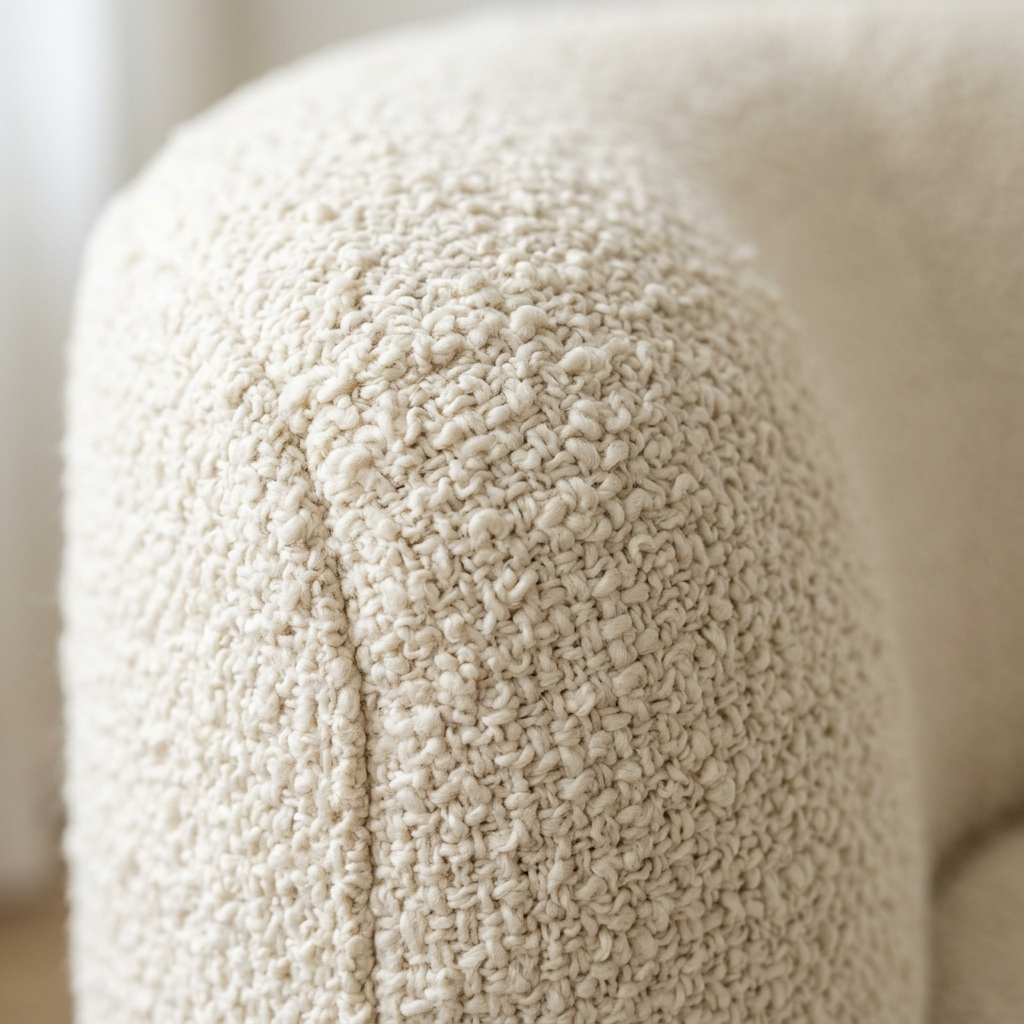
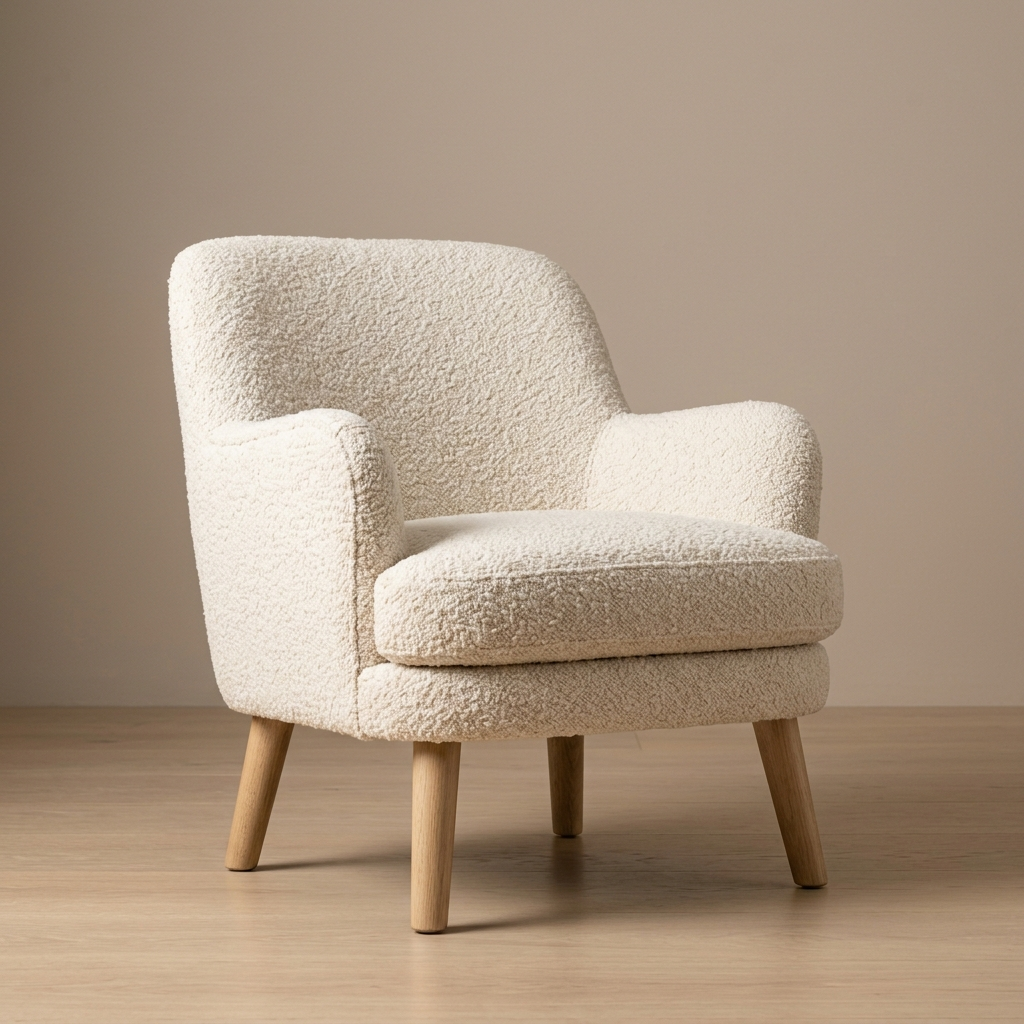
feat: initialize decor product catalog and add static assets

diff --git a/assets/js/decor-store.js b/assets/js/decor-store.js
@@ -129,8 +129,8 @@
     },
     {
       id: "decor-9",
-      title: "Alpine Polyresin Bird Water Fountain ",
-      category: "Fountains & Sculptures",
+      title: "Alpine Luxury Round Marble Top Coffee Table",
+      category: "Vases & Ceramics",
       price: 799,
       originalPrice: 999,
       rating: 4.7,
@@ -139,12 +139,12 @@
       badge: "20% OFF",
       badgeClass: "badge-discount",
       image: "assets/images/decor/alpine_bird_fountain.png",
-      dimensions: "13cm x 12.5cm x 18.5cm",
-      description: "Compact tabletop water fountain featuring hand-painted songbirds resting beside cascading river rocks with quiet pump."
+      dimensions: "90cm x 90cm x 45cm",
+      description: "Luxury round white marble coffee table featuring solid natural quarried marble top with brushed brass gold frame."
     },
     {
       id: "decor-10",
-      title: "Noor Polyresin Buddha Figurine with T-Light",
+      title: "Noor Sculptural Bouclé Accent Armchair",
       category: "Figurines",
       price: 4999,
       originalPrice: null,
@@ -154,8 +154,8 @@
       badge: "FREE SHIPPING",
       badgeClass: "badge-shipping",
       image: "assets/images/decor/noor_buddha_tlight.png",
-      dimensions: "10\"W x 8\"D x 14\"H",
-      description: "Serene meditating Buddha statue with built-in lotus tea light candle holder crafted in aged bronze patinated polyresin."
+      dimensions: "32\"W x 34\"D x 30\"H",
+      description: "Contemporary curved lounge armchair upholstered in tactile cream bouclé fabric with solid oak inner frame."
     },
     {
       id: "decor-11",
@@ -174,7 +174,7 @@
     },
     {
       id: "decor-12",
-      title: "Brighton Stoneware Reindeer Figurine",
+      title: "Brighton Mid-Century Wooden Credenza",
       category: "Figurines",
       price: 2499,
       originalPrice: null,
@@ -184,8 +184,8 @@
       badge: "",
       badgeClass: "",
       image: "assets/images/decor/brighton_reindeer.png",
-      dimensions: "8\"W x 4\"D x 14\"H",
-      description: "Nordic styled stoneware reindeer figurine with metallic antler highlights, creating a festive luxury statement."
+      dimensions: "60\"W x 18\"D x 30\"H",
+      description: "Handcrafted solid teak wood credenza console sideboard with slatted doors and brushed metal hardware."
     },
     {
       id: "decor-13",
@@ -204,7 +204,7 @@
     },
     {
       id: "decor-14",
-      title: "Alpine Polyresin Ganesha Fountain - 25x39cm",
+      title: "Alpine Cognac Leather Sectional Sofa",
       category: "Fountains & Sculptures",
       price: 2749,
       originalPrice: 5499,
@@ -214,12 +214,12 @@
       badge: "50% OFF",
       badgeClass: "badge-discount",
       image: "assets/images/decor/alpine_ganesha_fountain.png",
-      dimensions: "25cm x 39cm",
-      description: "Divine Lord Ganesha tabletop water fountain with rolling crystal water ball and warm glowing LED backlight."
+      dimensions: "96\"W x 40\"D x 32\"H",
+      description: "Plush modern cognac brown leather sectional sofa crafted from top-grain aniline leather with deep comfortable seating."
     },
     {
       id: "decor-15",
-      title: "Enlighten Polyresin Sitting Buddha Figurine",
+      title: "Enlighten Luxury Upholstered Platform Bed",
       category: "Figurines",
       price: 5999,
       originalPrice: null,
@@ -229,12 +229,12 @@
       badge: "FREE SHIPPING",
       badgeClass: "badge-shipping",
       image: "assets/images/decor/enlighten_sitting_buddha.png",
-      dimensions: "14\"W x 10\"D x 20\"H",
-      description: "Large antique gold sitting Buddha sculpture displaying Dhyana Mudra gesture, designed to infuse tranquility into any home."
+      dimensions: "68\"W x 86\"L x 48\"H",
+      description: "Tailored modern low-profile platform bed frame featuring plush neutral channel-tufted upholstered headboard."
     },
     {
       id: "decor-16",
-      title: "Alpine Carnival Polyresin Meditating Buddha",
+      title: "Alpine Teak Outdoor Lounge Daybed",
       category: "Fountains & Sculptures",
       price: 3999,
       originalPrice: 7999,
@@ -244,12 +244,12 @@
       badge: "50% OFF",
       badgeClass: "badge-discount",
       image: "assets/images/decor/alpine_carnival_fountain.png",
-      dimensions: "26cm x 18cm x 44cm",
-      description: "Tiered rock waterfall fountain featuring meditating Buddha in serene contemplation with color-changing water LED lights."
+      dimensions: "72\"W x 34\"D x 28\"H",
+      description: "Weather-resistant premium teak wood outdoor lounge sofa daybed with plush off-white water-repellent cushions."
     },
     {
       id: "decor-17",
-      title: "Jessica White Metal Contemporary Floor Lamp",
+      title: "Jessica Teak Wood Credenza Cabinet",
       category: "Lighting",
       price: 2999,
       originalPrice: null,
@@ -259,12 +259,12 @@
       badge: "FREE SHIPPING",
       badgeClass: "badge-shipping",
       image: "assets/images/decor/jessica_white_lamp.png",
-      dimensions: "16\"Dia x 60\"H",
-      description: "Modern minimalist white metal floor lamp with clean geometric stand and softly diffused ambient light output."
+      dimensions: "54\"W x 16\"D x 32\"H",
+      description: "Minimalist four-door teak wood storage credenza cabinet showcasing natural wood grain and sleek brass legs."
     },
     {
       id: "decor-18",
-      title: "Brighton Max Ceramic Sitting Rabbit",
+      title: "Brighton Velvet Wingback Upholstered Bed",
       category: "Figurines",
       price: 1299,
       originalPrice: null,
@@ -274,8 +274,8 @@
       badge: "",
       badgeClass: "",
       image: "assets/images/decor/brighton_rabbit.png",
-      dimensions: "7\"W x 5\"D x 12\"H",
-      description: "Smooth glazed ceramic sitting rabbit figurine in minimalist ivory white finish, adding playful sophistication to console tables."
+      dimensions: "66\"W x 84\"L x 52\"H",
+      description: "Elegant ivory velvet upholstered wingback bed frame with deep cushioned support and solid timber legs."
     }
   ];
 

diff --git a/assets/css/style.css b/assets/css/style.css
@@ -1795,17 +1795,21 @@ p {
 /* ---- CTA Newsletter Form ---- */
 .cta-newsletter-form {
   display: flex;
-  max-width: 420px;
+  max-width: 460px;
   margin: 0 auto;
   border-radius: var(--radius-full);
   overflow: hidden;
-  border: 1.5px solid rgba(255, 255, 255, 0.4);
-  background: rgba(255, 255, 255, 0.05);
-  transition: border-color var(--t-fast);
+  border: 1.5px solid rgba(255, 255, 255, 0.45);
+  background: rgba(0, 0, 0, 0.25);
+  backdrop-filter: blur(8px);
+  -webkit-backdrop-filter: blur(8px);
+  padding: 4px;
+  transition: all var(--t-fast);
 }
 
 .cta-newsletter-form:focus-within {
-  border-color: rgba(255, 255, 255, 0.8);
+  border-color: var(--color-primary-light);
+  box-shadow: 0 0 16px rgba(197, 160, 89, 0.3);
 }
 
 .cta-newsletter-form input {
@@ -1813,33 +1817,37 @@ p {
   background: transparent;
   border: none;
   outline: none;
-  padding: 0.9rem 1.2rem;
+  padding: 0.8rem 1.2rem;
   color: #fff;
-  font-size: 0.9rem;
+  font-size: 0.95rem;
   min-width: 0;
 }
 
 .cta-newsletter-form input::placeholder {
-  color: rgba(255, 255, 255, 0.6);
+  color: rgba(255, 255, 255, 0.7);
 }
 
 .cta-newsletter-form button {
   background: var(--color-primary);
-  color: #fff;
+  color: #111111;
   border: none;
-  padding: 0 1.8rem;
+  padding: 0.8rem 1.8rem;
   font-family: var(--font-button);
-  font-weight: 500;
+  font-weight: 600;
   font-size: 0.95rem;
-  transition: background var(--t-fast);
+  border-radius: var(--radius-full);
+  transition: all var(--t-fast);
   cursor: pointer;
   white-space: nowrap;
   flex-shrink: 0;
+  box-shadow: 0 2px 8px rgba(0, 0, 0, 0.2);
 }
 
 .cta-newsletter-form button:hover {
-  background: var(--color-primary-light);
-  color: var(--color-dark);
+  background: #FFFFFF;
+  color: #111111;
+  box-shadow: 0 4px 14px rgba(255, 255, 255, 0.4);
+  transform: translateY(-1px);
 }
 
 /* ============ ACCORDION (FAQ) ============ */
@@ -1950,6 +1958,35 @@ textarea.form-control {
   .form-row.two {
     grid-template-columns: 1fr 1fr;
   }
+}
+
+/* Contact Info Card Icon Box */
+.contact-icon-box {
+  width: 44px;
+  height: 44px;
+  border-radius: var(--radius-md);
+  background: var(--color-secondary-light);
+  display: flex;
+  align-items: center;
+  justify-content: center;
+  color: var(--color-primary-dark);
+  flex-shrink: 0;
+  transition: all var(--t-fast) var(--ease);
+}
+
+/* Date & Time Picker Icon Styling (Light Mode) */
+input[type="date"]::-webkit-calendar-picker-indicator,
+input[type="time"]::-webkit-calendar-picker-indicator,
+input[type="datetime-local"]::-webkit-calendar-picker-indicator {
+  cursor: pointer;
+  filter: brightness(0) saturate(100%) invert(35%) sepia(50%) saturate(600%) hue-rotate(5deg);
+  opacity: 0.85;
+  transition: opacity var(--t-fast);
+}
+
+input[type="date"]::-webkit-calendar-picker-indicator:hover,
+input[type="time"]::-webkit-calendar-picker-indicator:hover {
+  opacity: 1;
 }
 
 /* ============ BADGE ============ */

diff --git a/assets/css/dark-mode.css b/assets/css/dark-mode.css
@@ -50,14 +50,27 @@
 [data-theme="dark"] input[type="date"]::-webkit-calendar-picker-indicator,
 [data-theme="dark"] input[type="time"]::-webkit-calendar-picker-indicator,
 [data-theme="dark"] input[type="datetime-local"]::-webkit-calendar-picker-indicator {
-  filter: invert(0.9) brightness(1.2);
+  filter: brightness(0) invert(0.85) sepia(1) saturate(5) hue-rotate(5deg) !important;
+  opacity: 0.95;
   cursor: pointer;
 }
 
 /* Contact info card icon contrast in dark mode */
-[data-theme="dark"] .contact-grid div[style*="background:var(--color-secondary-light)"] {
-  background: rgba(197, 160, 89, 0.2) !important;
+[data-theme="dark"] .contact-icon-box {
+  background: rgba(197, 160, 89, 0.22) !important;
   color: var(--color-primary-light) !important;
+  border: 1px solid rgba(197, 160, 89, 0.35) !important;
+}
+
+[data-theme="dark"] .contact-grid div[style*="background:var(--color-secondary-light)"],
+[data-theme="dark"] .contact-grid div[style*="background: var(--color-secondary-light)"] {
+  background: rgba(197, 160, 89, 0.22) !important;
+  color: var(--color-primary-light) !important;
+}
+
+[data-theme="dark"] select.form-control option {
+  background-color: #1F1A14;
+  color: #EDE7DF;
 }
 
 [data-theme="dark"] .social-btn { color: var(--color-text); }
